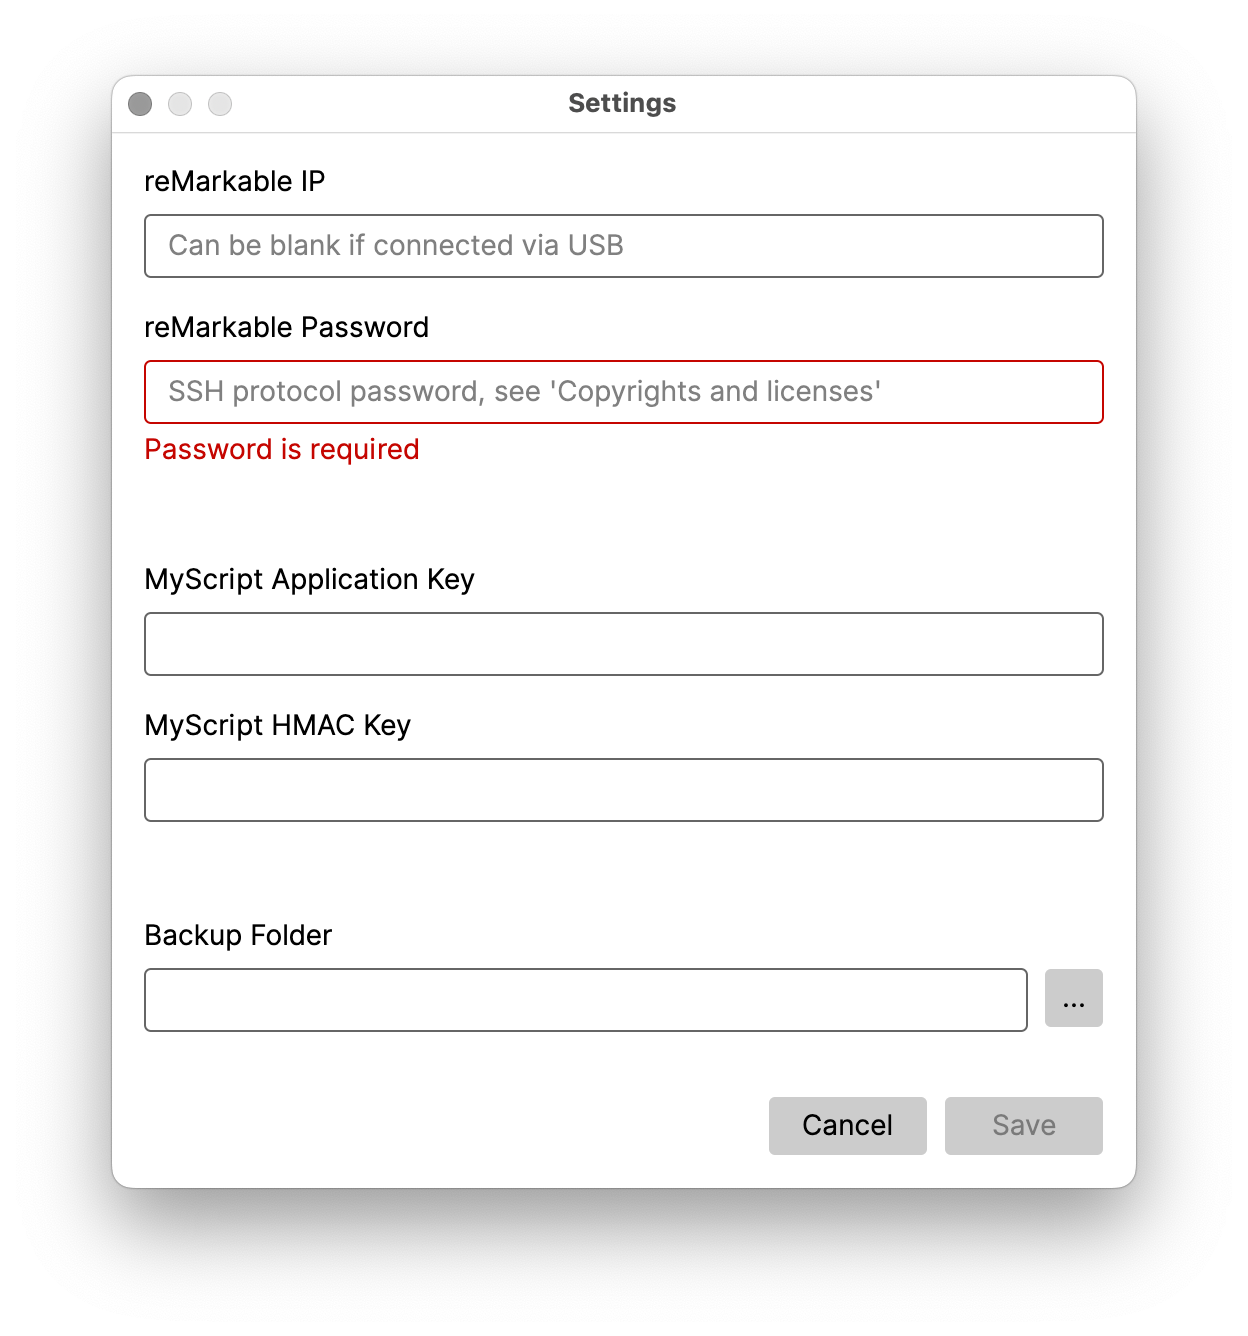
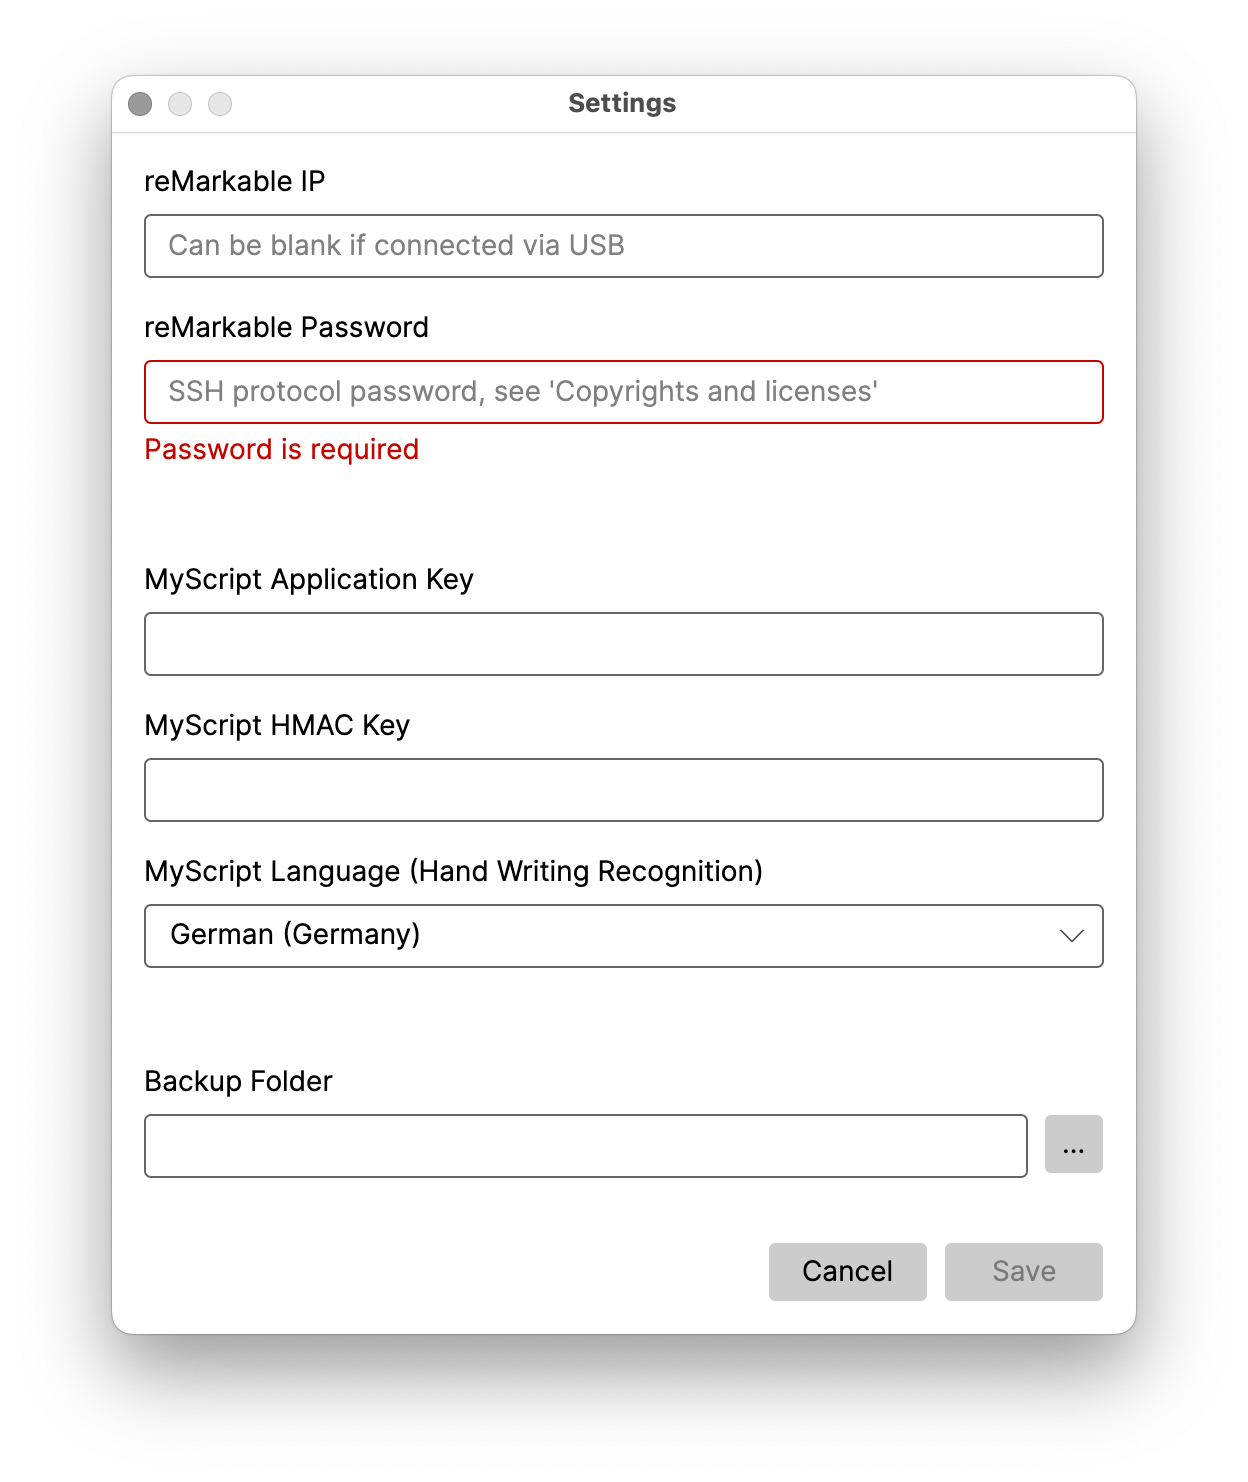
Uses sidebar buttons in material design style

diff --git a/src/ReMarkableRemember/ViewModels/MainWindowModel.cs b/src/ReMarkableRemember/ViewModels/MainWindowModel.cs
@@ -31,12 +31,10 @@ public sealed class MainWindowModel : ViewModelBase, IAppModel, IDisposable
     private Boolean hasBackupDirectory;
     private Boolean hasItems;
     private Job.Description jobs;
-    private MyScriptLanguageViewModel myScriptLanguage;
 
     public MainWindowModel(String dataSource)
     {
         this.ItemsTree = new ItemsTreeViewModel();
-        this.MyScriptLanguages = MyScriptLanguageViewModel.GetLanguages();
         this.OpenFilePicker = new Interaction<FilePickerOpenOptions, IEnumerable<String>?>();
         this.OpenFolderPicker = new Interaction<String, String?>();
         this.ShowDialog = new Interaction<DialogWindowModel, Boolean>();
@@ -46,7 +44,6 @@ public sealed class MainWindowModel : ViewModelBase, IAppModel, IDisposable
         this.hasBackupDirectory = Path.Exists(this.controller.Settings.Backup);
         this.hasItems = false;
         this.jobs = Job.Description.None;
-        this.myScriptLanguage = this.MyScriptLanguages.Single(language => String.CompareOrdinal(language.Code, this.controller.Settings.MyScriptLanguage) == 0);
 
         this.CommandAbout = ReactiveCommand.CreateFromTask(this.About);
         this.CommandBackup = ReactiveCommand.CreateFromTask(this.Backup, this.Backup_CanExecute());
@@ -63,7 +60,6 @@ public sealed class MainWindowModel : ViewModelBase, IAppModel, IDisposable
 
         this.WhenAnyValue(vm => vm.ConnectionStatus).Subscribe(status => this.RaisePropertyChanged(nameof(this.ConnectionStatusText)));
         this.WhenAnyValue(vm => vm.Jobs).Subscribe(jobs => this.RaisePropertyChanged(nameof(this.JobsText)));
-        this.WhenAnyValue(vm => vm.MyScriptLanguage).Subscribe(this.SaveMyScriptLanguage);
 
         RxApp.MainThreadScheduler.Schedule(this.Update);
     }
@@ -273,12 +269,6 @@ public sealed class MainWindowModel : ViewModelBase, IAppModel, IDisposable
         {
             await this.controller.Restart().ConfigureAwait(true);
         }
-    }
-
-    private void SaveMyScriptLanguage(MyScriptLanguageViewModel language)
-    {
-        this.controller.Settings.MyScriptLanguage = language.Code;
-        this.controller.Settings.SaveChanges();
     }
 
     private async Task Settings()
@@ -545,14 +535,6 @@ public sealed class MainWindowModel : ViewModelBase, IAppModel, IDisposable
             return (jobs.Count > 0) ? String.Join(" and ", jobs) : null;
         }
     }
-
-    public MyScriptLanguageViewModel MyScriptLanguage
-    {
-        get { return this.myScriptLanguage; }
-        set { this.RaiseAndSetIfChanged(ref this.myScriptLanguage, value); }
-    }
-
-    public IEnumerable<MyScriptLanguageViewModel> MyScriptLanguages { get; }
 
     public Interaction<FilePickerOpenOptions, IEnumerable<String>?> OpenFilePicker { get; }
 

diff --git a/src/ReMarkableRemember/ViewModels/SettingsViewModel.cs b/src/ReMarkableRemember/ViewModels/SettingsViewModel.cs
@@ -1,4 +1,6 @@
 using System;
+using System.Collections.Generic;
+using System.Linq;
 using System.Reactive.Linq;
 using System.Text.RegularExpressions;
 using System.Threading.Tasks;
@@ -13,6 +15,7 @@ public sealed partial class SettingsViewModel : DialogWindowModel
     private String backup;
     private String myScriptApplicationKey;
     private String myScriptHmacKey;
+    private MyScriptLanguageViewModel myScriptLanguage;
     private String tabletIp;
     private String tabletPassword;
 
@@ -20,11 +23,14 @@ public sealed partial class SettingsViewModel : DialogWindowModel
 
     internal SettingsViewModel(Settings settings) : base("Settings", "Save", "Cancel")
     {
+        this.MyScriptLanguages = MyScriptLanguageViewModel.GetLanguages();
+
         this.settings = settings;
 
         this.backup = this.settings.Backup;
         this.myScriptApplicationKey = this.settings.MyScriptApplicationKey;
         this.myScriptHmacKey = this.settings.MyScriptHmacKey;
+        this.myScriptLanguage = this.MyScriptLanguages.Single(language => String.CompareOrdinal(language.Code, this.settings.MyScriptLanguage) == 0);
         this.tabletIp = this.settings.TabletIp;
         this.tabletPassword = this.settings.TabletPassword;
 
@@ -41,6 +47,10 @@ public sealed partial class SettingsViewModel : DialogWindowModel
     public String MyScriptApplicationKey { get { return this.myScriptApplicationKey; } set { this.RaiseAndSetIfChanged(ref this.myScriptApplicationKey, value); } }
 
     public String MyScriptHmacKey { get { return this.myScriptHmacKey; } set { this.RaiseAndSetIfChanged(ref this.myScriptHmacKey, value); } }
+
+    public MyScriptLanguageViewModel MyScriptLanguage { get { return this.myScriptLanguage; } set { this.RaiseAndSetIfChanged(ref this.myScriptLanguage, value); } }
+
+    public IEnumerable<MyScriptLanguageViewModel> MyScriptLanguages { get; }
 
     public String TabletIp { get { return this.tabletIp; } set { this.RaiseAndSetIfChanged(ref this.tabletIp, value); } }
 
@@ -71,6 +81,7 @@ public sealed partial class SettingsViewModel : DialogWindowModel
         this.settings.Backup = this.Backup;
         this.settings.MyScriptApplicationKey = this.MyScriptApplicationKey;
         this.settings.MyScriptHmacKey = this.MyScriptHmacKey;
+        this.settings.MyScriptLanguage = this.MyScriptLanguage.Code;
         this.settings.TabletIp = this.TabletIp;
         this.settings.TabletPassword = this.TabletPassword;
 
